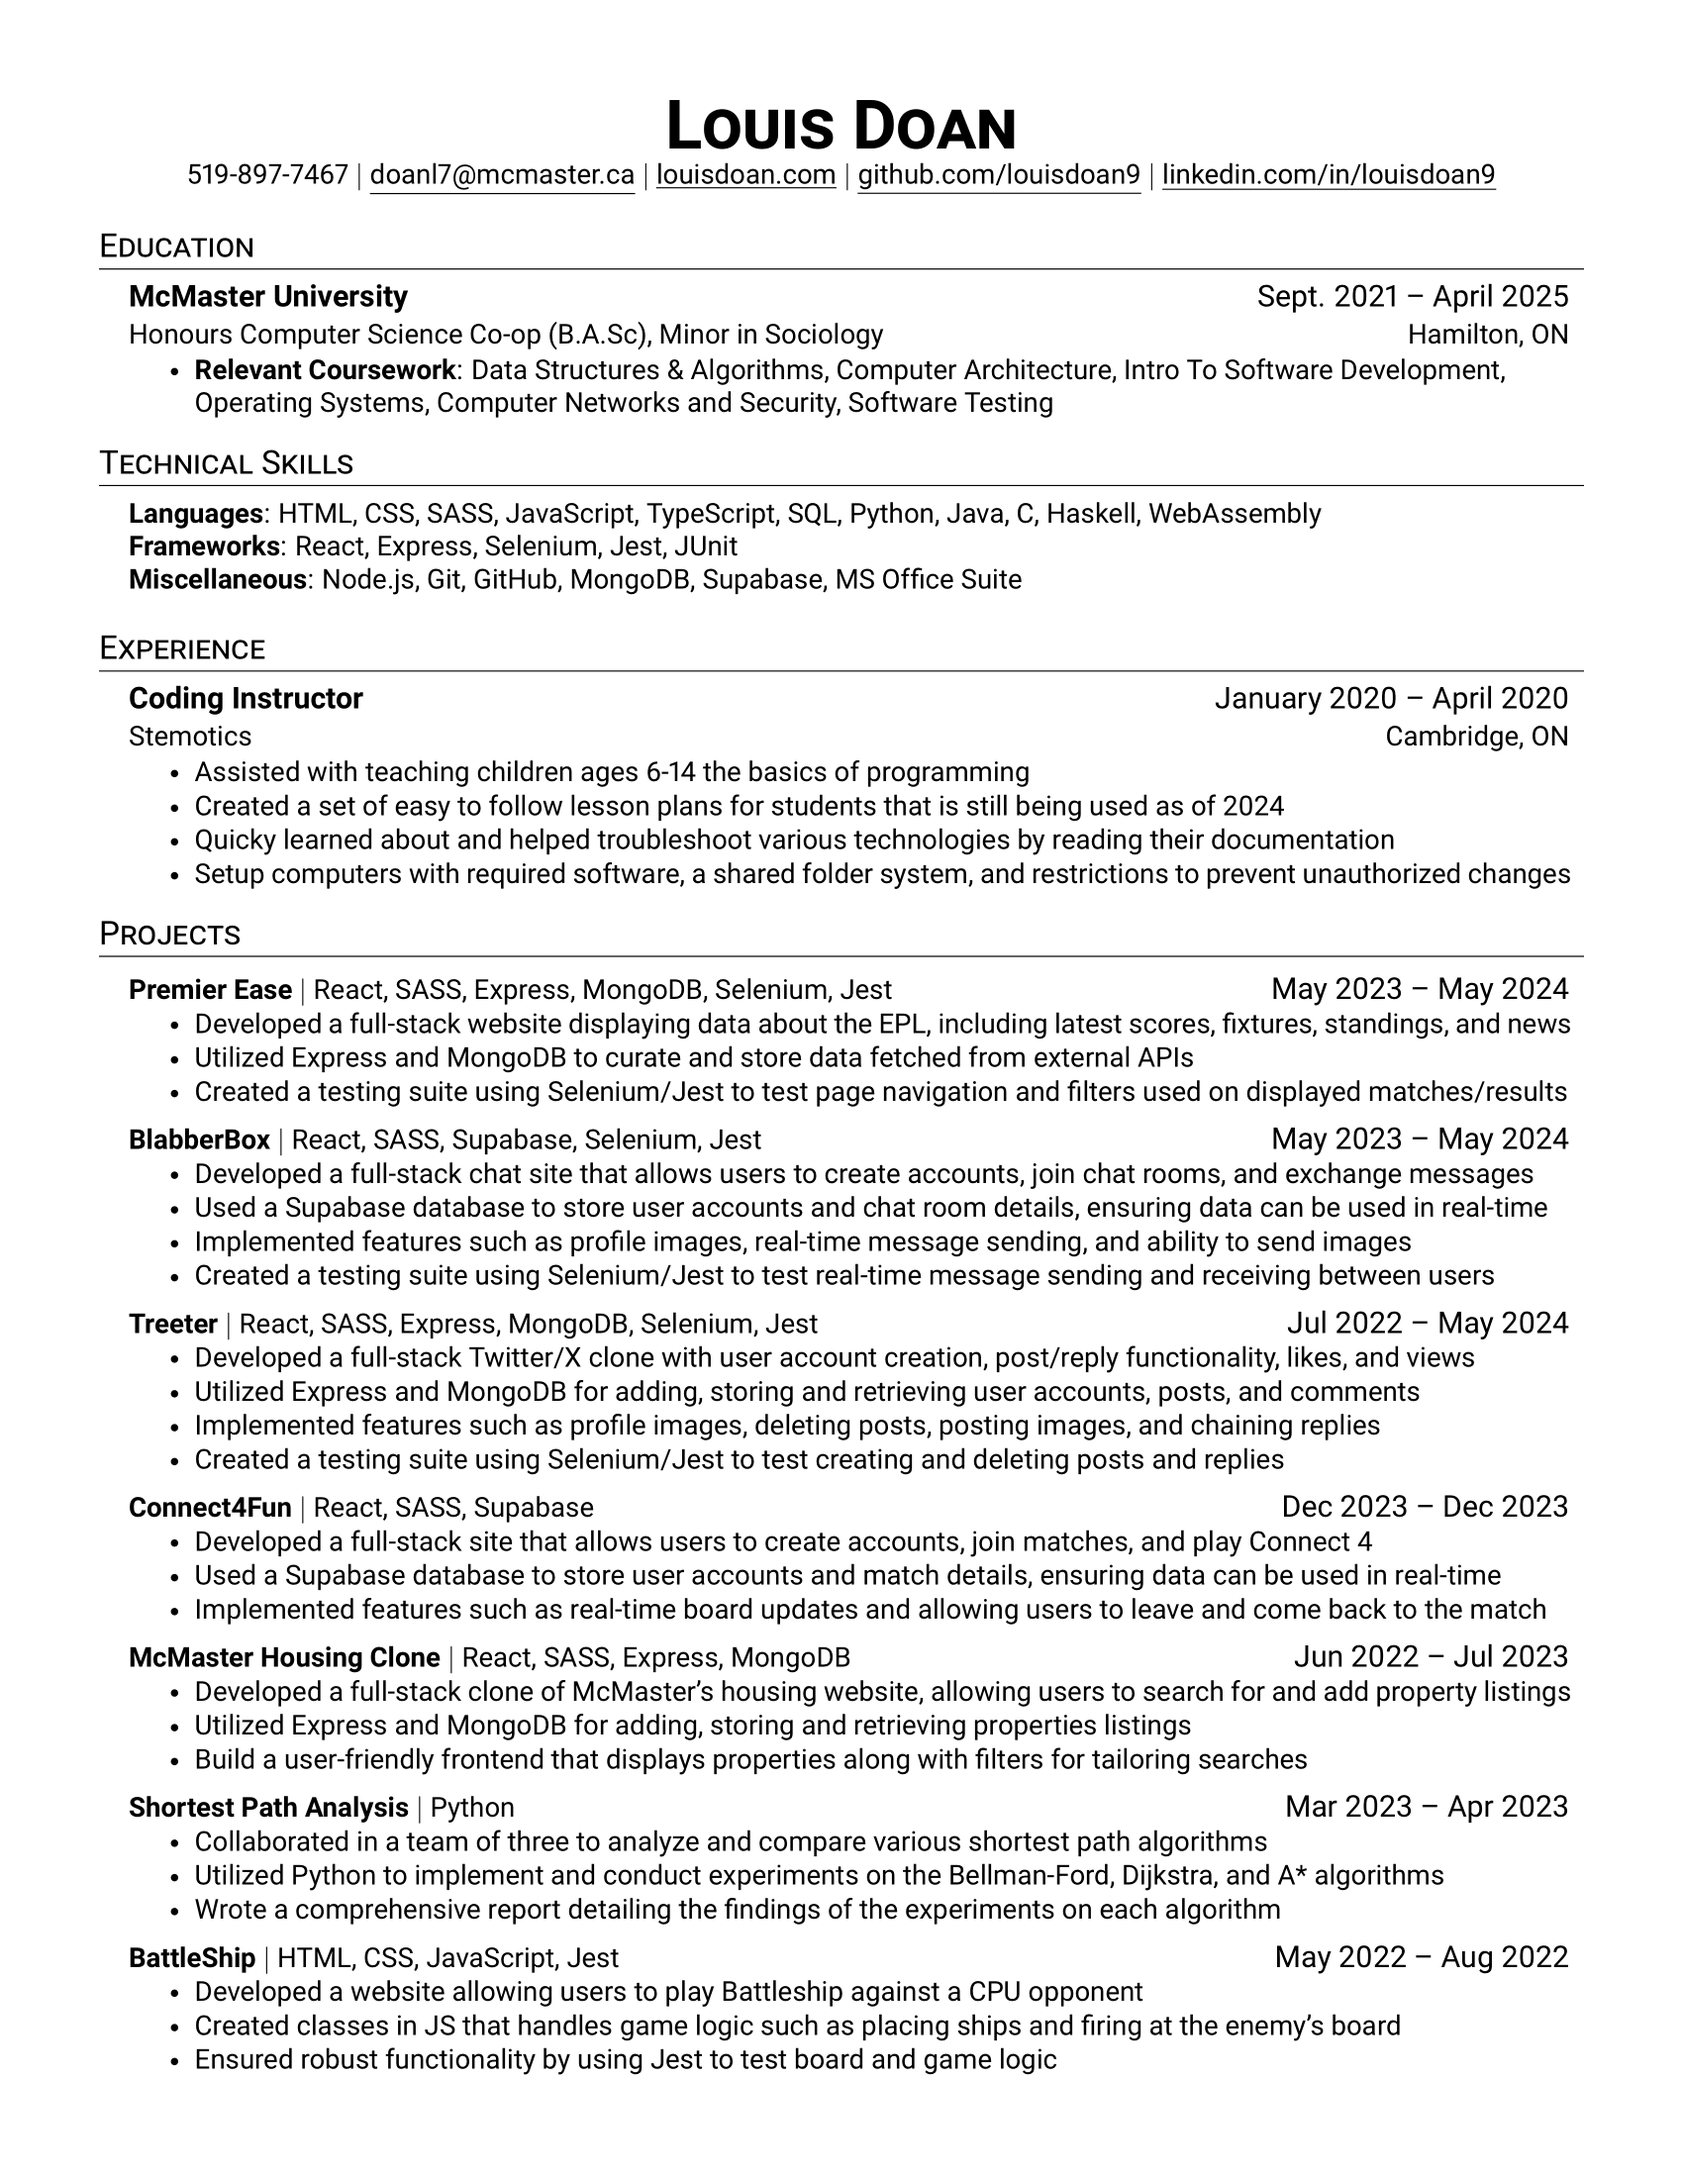
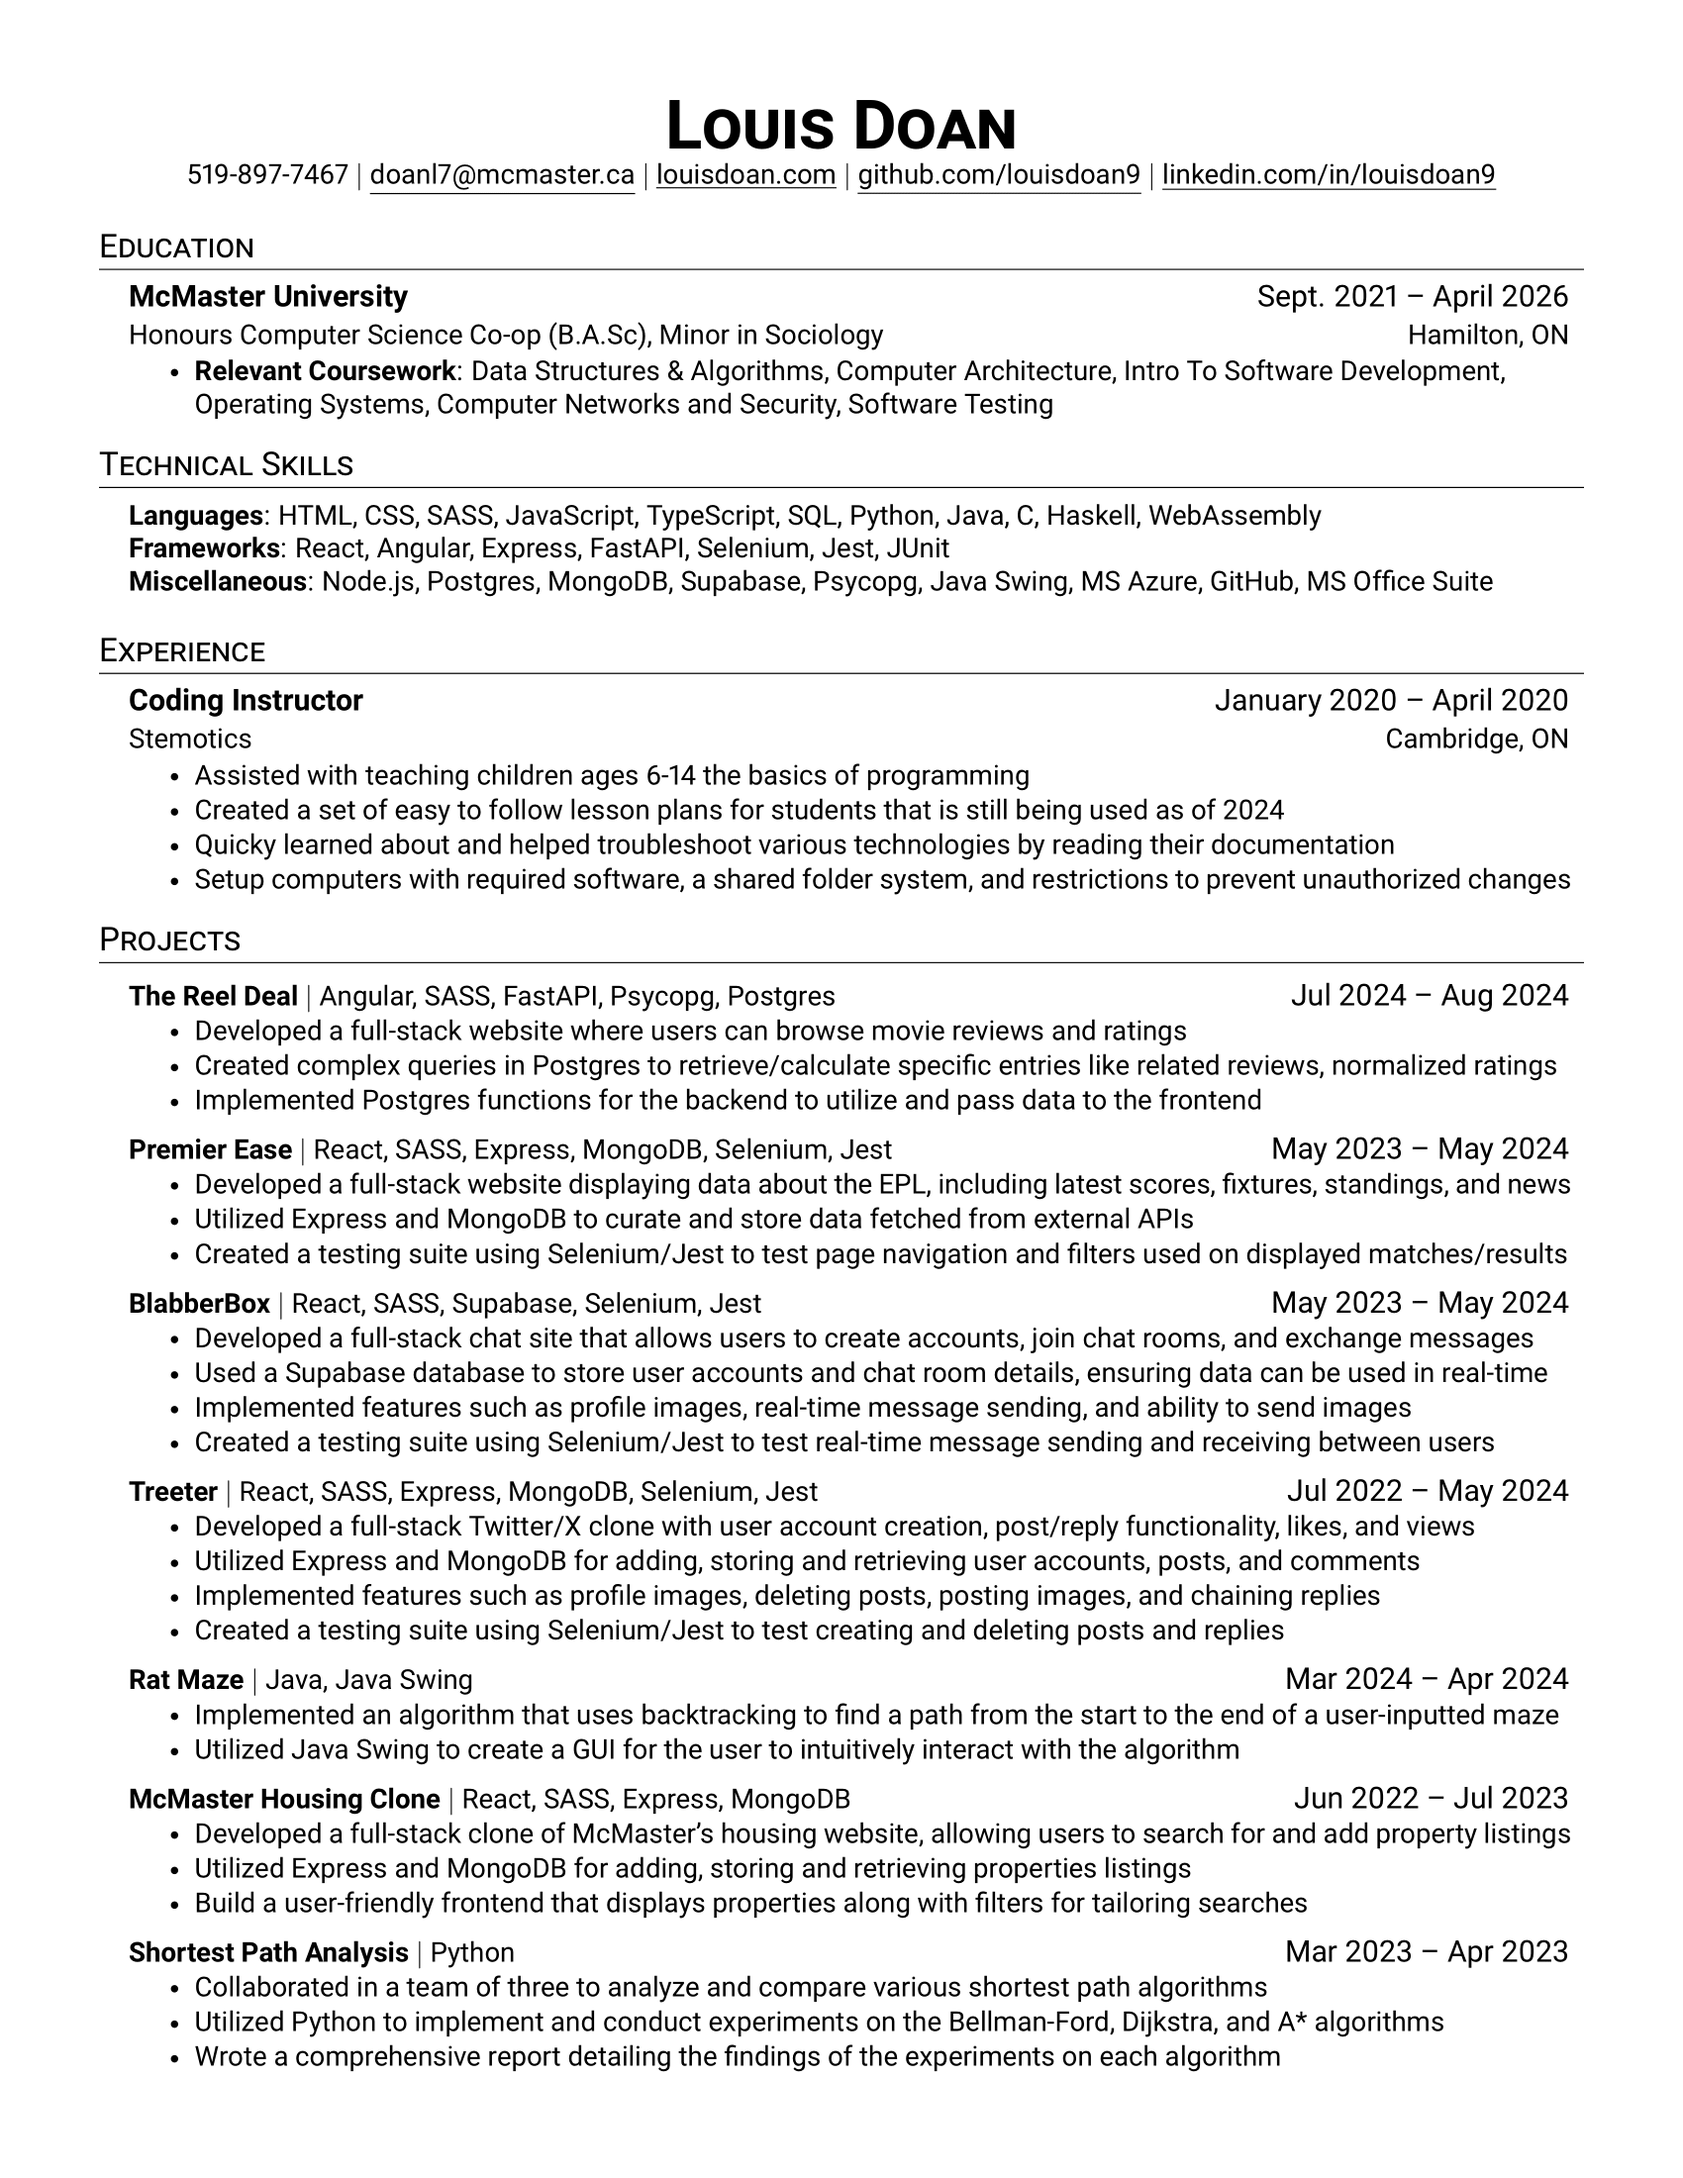
Add ShortestPathAnalysis and Rat Maze to projects

Changed region(s): [[0.0624, 0.1545, 0.9353, 0.9582], [0.7482, 0.3091, 0.9353, 0.34], [0.8729, 0.8964, 0.9353, 0.9273]]

diff --git a/src/Pages/Project/Projects.js b/src/Pages/Project/Projects.js
@@ -24,15 +24,15 @@ import thereeldeal4 from '../../images/thereeldeal4.png';
 import thereeldeal5 from '../../images/thereeldeal5.png';
 import thereeldeal6 from '../../images/thereeldeal6.png';
 
-import battleShip from '../../images/battleship.png';
-import battleShip2 from '../../images/battleship2.png';
+import ratmaze from '../../images/ratmaze.png';
+import ratmaze2 from '../../images/ratmaze2.png';
 
 import treeter from '../../images/treeter.png';
 import treeter2 from '../../images/treeter2.png';
 import treeter3 from '../../images/treeter3.png';
 
-import etchSketch from '../../images/etch-a-sketch.png';
-import etchSketch2 from '../../images/etch-a-sketch2.png';
+import shortestpath from '../../images/shortestpath.png';
+import shortestpath2 from '../../images/shortestpath2.png';
 
 import { useState } from 'react';
 
@@ -129,22 +129,22 @@ const allProjects = [
 		lastUpdated: 2023,
 	},
 	{
-		image: [battleShip, battleShip2],
-		projectName: 'BattleShip',
-		description: `Simple game of battleship vs an AI. AI has difficulty setting that makes it more/less likely to hit the user's ship.`,
-		technologies: ['HTML', 'CSS', 'JavaScript', 'Jest'],
-		website: 'https://louisdoan9.github.io/battleship/',
-		github: ['https://github.com/louisdoan9/battleship'],
-		lastUpdated: 2022,
+		image: [ratmaze, ratmaze2],
+		projectName: 'Rat Maze',
+		description: `A backtracking algorithm where users can find a path from a starting position to the end of an inputted maze.`,
+		technologies: ['Java', 'Java Swing'],
+		website: '',
+		github: ['https://github.com/louisdoan9/ratmaze'],
+		lastUpdated: 2024,
 	},
 	{
-		image: [etchSketch, etchSketch2],
-		projectName: 'Etch-A-Sketch',
-		description: `An etch-a-sketch that allows users to add colored squared to a board. User can also change number of squares board contains.`,
-		technologies: ['HTML', 'CSS', 'JavaScript'],
-		website: 'https://louisdoan9.github.io/Etch-a-Sketch/',
-		github: ['https://github.com/louisdoan9/Etch-a-Sketch'],
-		lastUpdated: 2022,
+		image: [shortestpath, shortestpath2],
+		projectName: 'Shortest Path Analysis',
+		description: `Collaborated in a team of three to implement, analyze, and compare the shortest path algorithms: Dijkstra's, Bellman-Ford, and A*.`,
+		technologies: ['Python'],
+		website: '',
+		github: ['https://github.com/louisdoan9/shortestPathAnalysis'],
+		lastUpdated: 2023,
 	},
 ];
 

diff --git a/src/Pages/Project/ProjectsSection.js b/src/Pages/Project/ProjectsSection.js
@@ -15,21 +15,26 @@ function ProjectSection({ leftColumnProjects, rightColumnProjects, setYearFilter
 				<button onClick={() => setYearFilter(2023)} className={yearFilter === 2023 ? 'active' : ''}>
 					2023
 				</button>
-				<button onClick={() => setYearFilter(2022)} className={yearFilter === 2022 ? 'active' : ''}>
-					2022
-				</button>
 			</div>
 			<div className="columns">
 				<section className="left-column">
 					{leftColumnProjects.map((project, key) => {
 						return (
-							<Project key={yearFilter === 2023 ? key + yearFilter : key - yearFilter} project={project} />
+							<Project
+								key={yearFilter === 2024 ? 100 + key : yearFilter === 2023 ? 200 + key : key}
+								project={project}
+							/>
 						);
 					})}
 				</section>
 				<section className="right-column">
 					{rightColumnProjects.map((project, key) => {
-						return <Project key={(key + yearFilter) * -1} project={project} />;
+						return (
+							<Project
+								key={yearFilter === 2024 ? 100 + key + 4 : yearFilter === 2023 ? 200 + key + 4 : key + 4}
+								project={project}
+							/>
+						);
 					})}
 				</section>
 			</div>

diff --git a/src/Pages/Project/ProjectInfoScreen.js b/src/Pages/Project/ProjectInfoScreen.js
@@ -90,12 +90,16 @@ function ProjectInfo({ project, setDisplayInfo }) {
 							})}
 						</div>
 					</div>
-					<div>
-						<h2>Deployment</h2>
-						<a target="_blank" rel="noopener noreferrer" href={project.website}>
-							{project.website}
-						</a>
-					</div>
+					{project.website !== '' ? (
+						<div>
+							<h2>Deployment</h2>
+							<a target="_blank" rel="noopener noreferrer" href={project.website}>
+								{project.website}
+							</a>
+						</div>
+					) : (
+						''
+					)}
 					<div>
 						<h2>Github</h2>
 						<div className="github-links">
